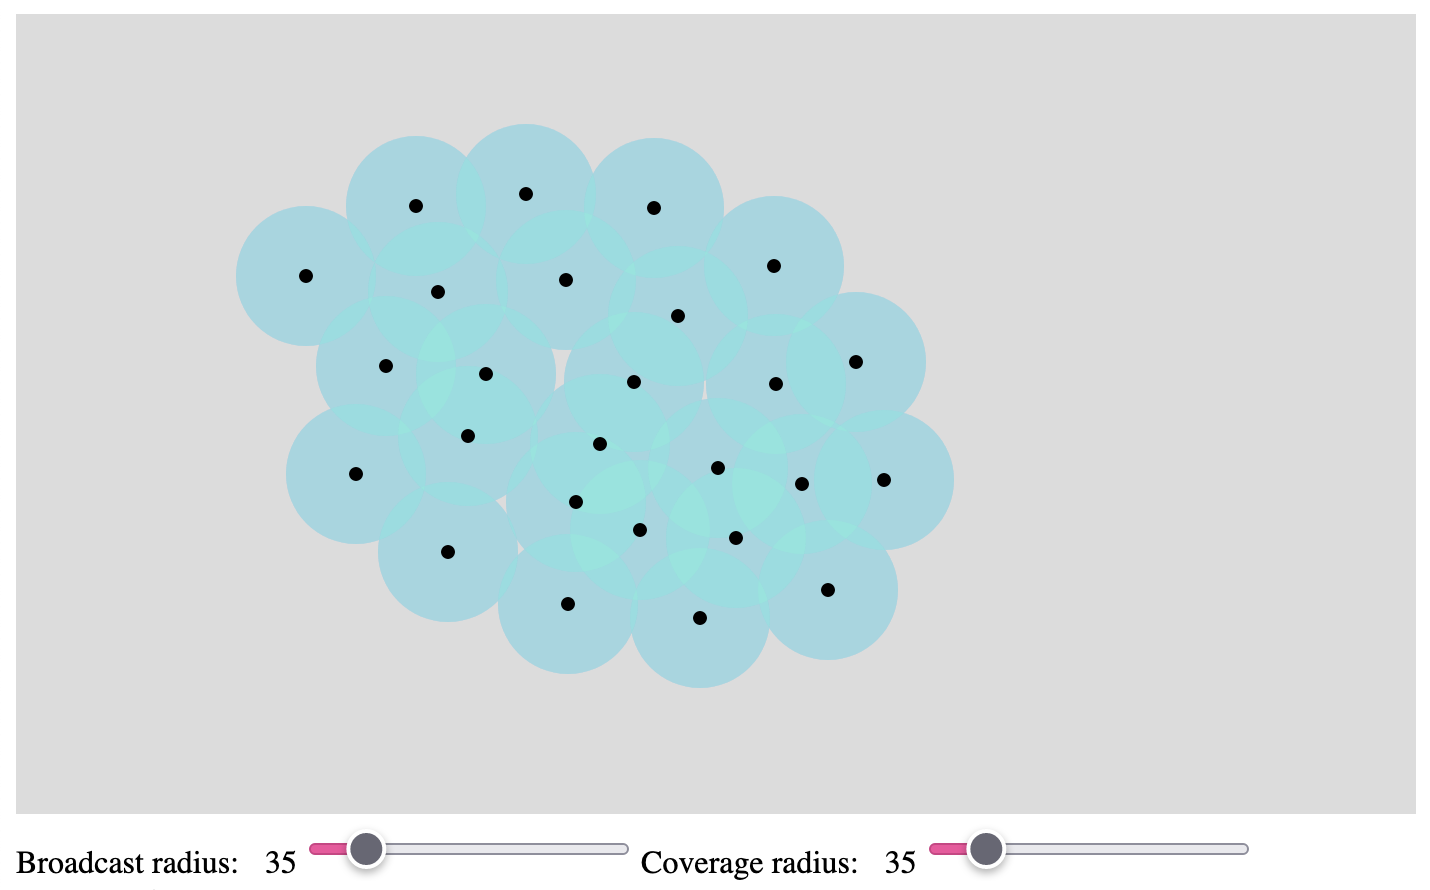
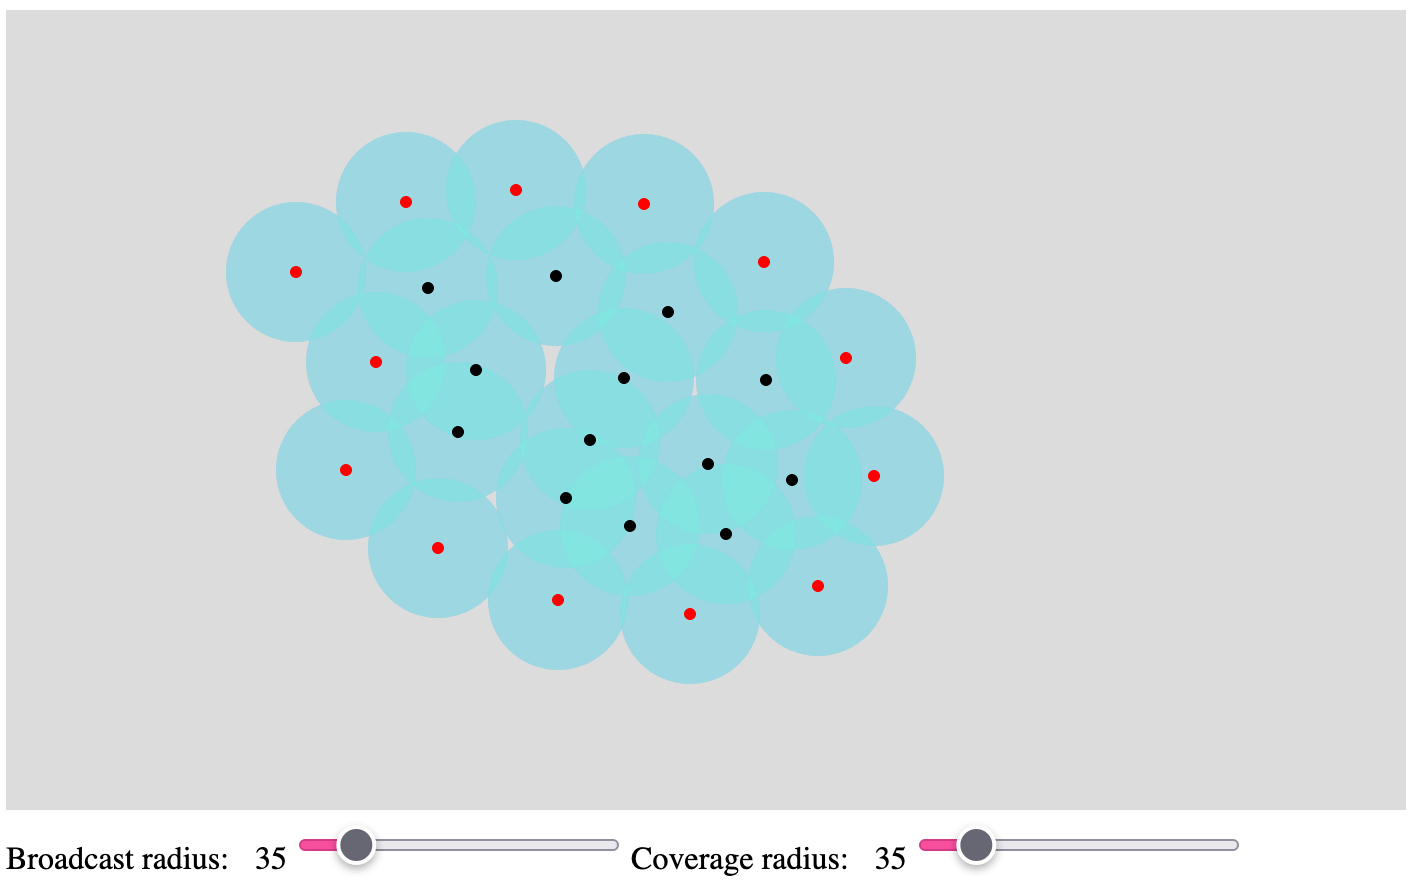
Add marking fence sensors

diff --git a/network_creator/sketch.js b/network_creator/sketch.js
@@ -1,13 +1,15 @@
 class Sensor {
   static {
-    this.drawRadius = 2;
+    this.drawRadius = 3;
     this.drawColor;
+    this.drawFenceColor;
     this.broadcastColor;
     this.coverageColor;
   }
 
-  constructor(pos) {
+  constructor(pos, fence = false) {
     this.pos = pos;
+    this.fence = fence;
   }
 }
 
@@ -18,7 +20,8 @@ const coverageRadius = document.querySelector("#coverage-radius");
 const SIZE = { x: 700, y: 400 };
 
 function setup() {
-  createCanvas(SIZE.x, SIZE.y);
+  const canvas = createCanvas(SIZE.x, SIZE.y);
+  canvas.elt.addEventListener("contextmenu", (e) => e.preventDefault());
 
   const handleSliderChange =
     (id) =>
@@ -35,6 +38,7 @@ function setup() {
   );
 
   Sensor.drawColor = color("black");
+  Sensor.drawFenceColor = color("red");
   Sensor.broadcastColor = color(103, 157, 245, 100);
   Sensor.coverageColor = color(130, 245, 216, 100);
 
@@ -47,7 +51,11 @@ function setup() {
       {
         broadcast_radius: +broadcastRadius.value,
         coverage_radius: +coverageRadius.value,
-        sensors: sensors.map((e) => ({ x: e.pos.x, y: e.pos.y })),
+        sensors: sensors.map((e) => ({
+          x: e.pos.x,
+          y: e.pos.y,
+          fence: e.fence,
+        })),
       },
       "sensors.json"
     );
@@ -71,7 +79,9 @@ function setup() {
           handleSliderChange("coverage-radius")({
             target: { value: data.coverage_radius },
           });
-          sensors = data.sensors.map((e) => new Sensor(createVector(e.x, e.y)));
+          sensors = data.sensors.map(
+            (e) => new Sensor(createVector(e.x, e.y), e.fence)
+          );
         };
         reader.readAsText(file);
       }
@@ -80,22 +90,20 @@ function setup() {
 
 function draw() {
   background(220);
+  noStroke();
 
   fill(Sensor.broadcastColor);
-  noStroke();
   for (const sensor of sensors) {
     circle(sensor.pos.x, sensor.pos.y, broadcastRadius.value * 2);
   }
 
   fill(Sensor.coverageColor);
-  noStroke();
   for (const sensor of sensors) {
     circle(sensor.pos.x, sensor.pos.y, coverageRadius.value * 2);
   }
 
-  fill(Sensor.drawColor);
-  stroke(Sensor.drawColor);
   for (const sensor of sensors) {
+    fill(sensor.fence ? Sensor.drawFenceColor : Sensor.drawColor);
     circle(sensor.pos.x, sensor.pos.y, Sensor.drawRadius * 2);
   }
 }
@@ -121,7 +129,9 @@ function mousePressed() {
   }
 }
 function mouseReleased() {
-  if (
+  if (mouseButton === RIGHT && movedSensor !== undefined) {
+    movedSensor.fence = !movedSensor.fence;
+  } else if (
     movedSensor === undefined &&
     mouseY >= 0 &&
     mouseY < SIZE.y &&

diff --git a/network_creator/index.html b/network_creator/index.html
@@ -58,6 +58,7 @@
       <ol>
         <li>Press on the canvas to add a new sensor</li>
         <li>Drag a sensor to move it</li>
+        <li>Right click a sensor to toggle between fence and normal sensor</li>
         <li>
           Make sure when creating the sensor network that there exists a fence
           coverage
